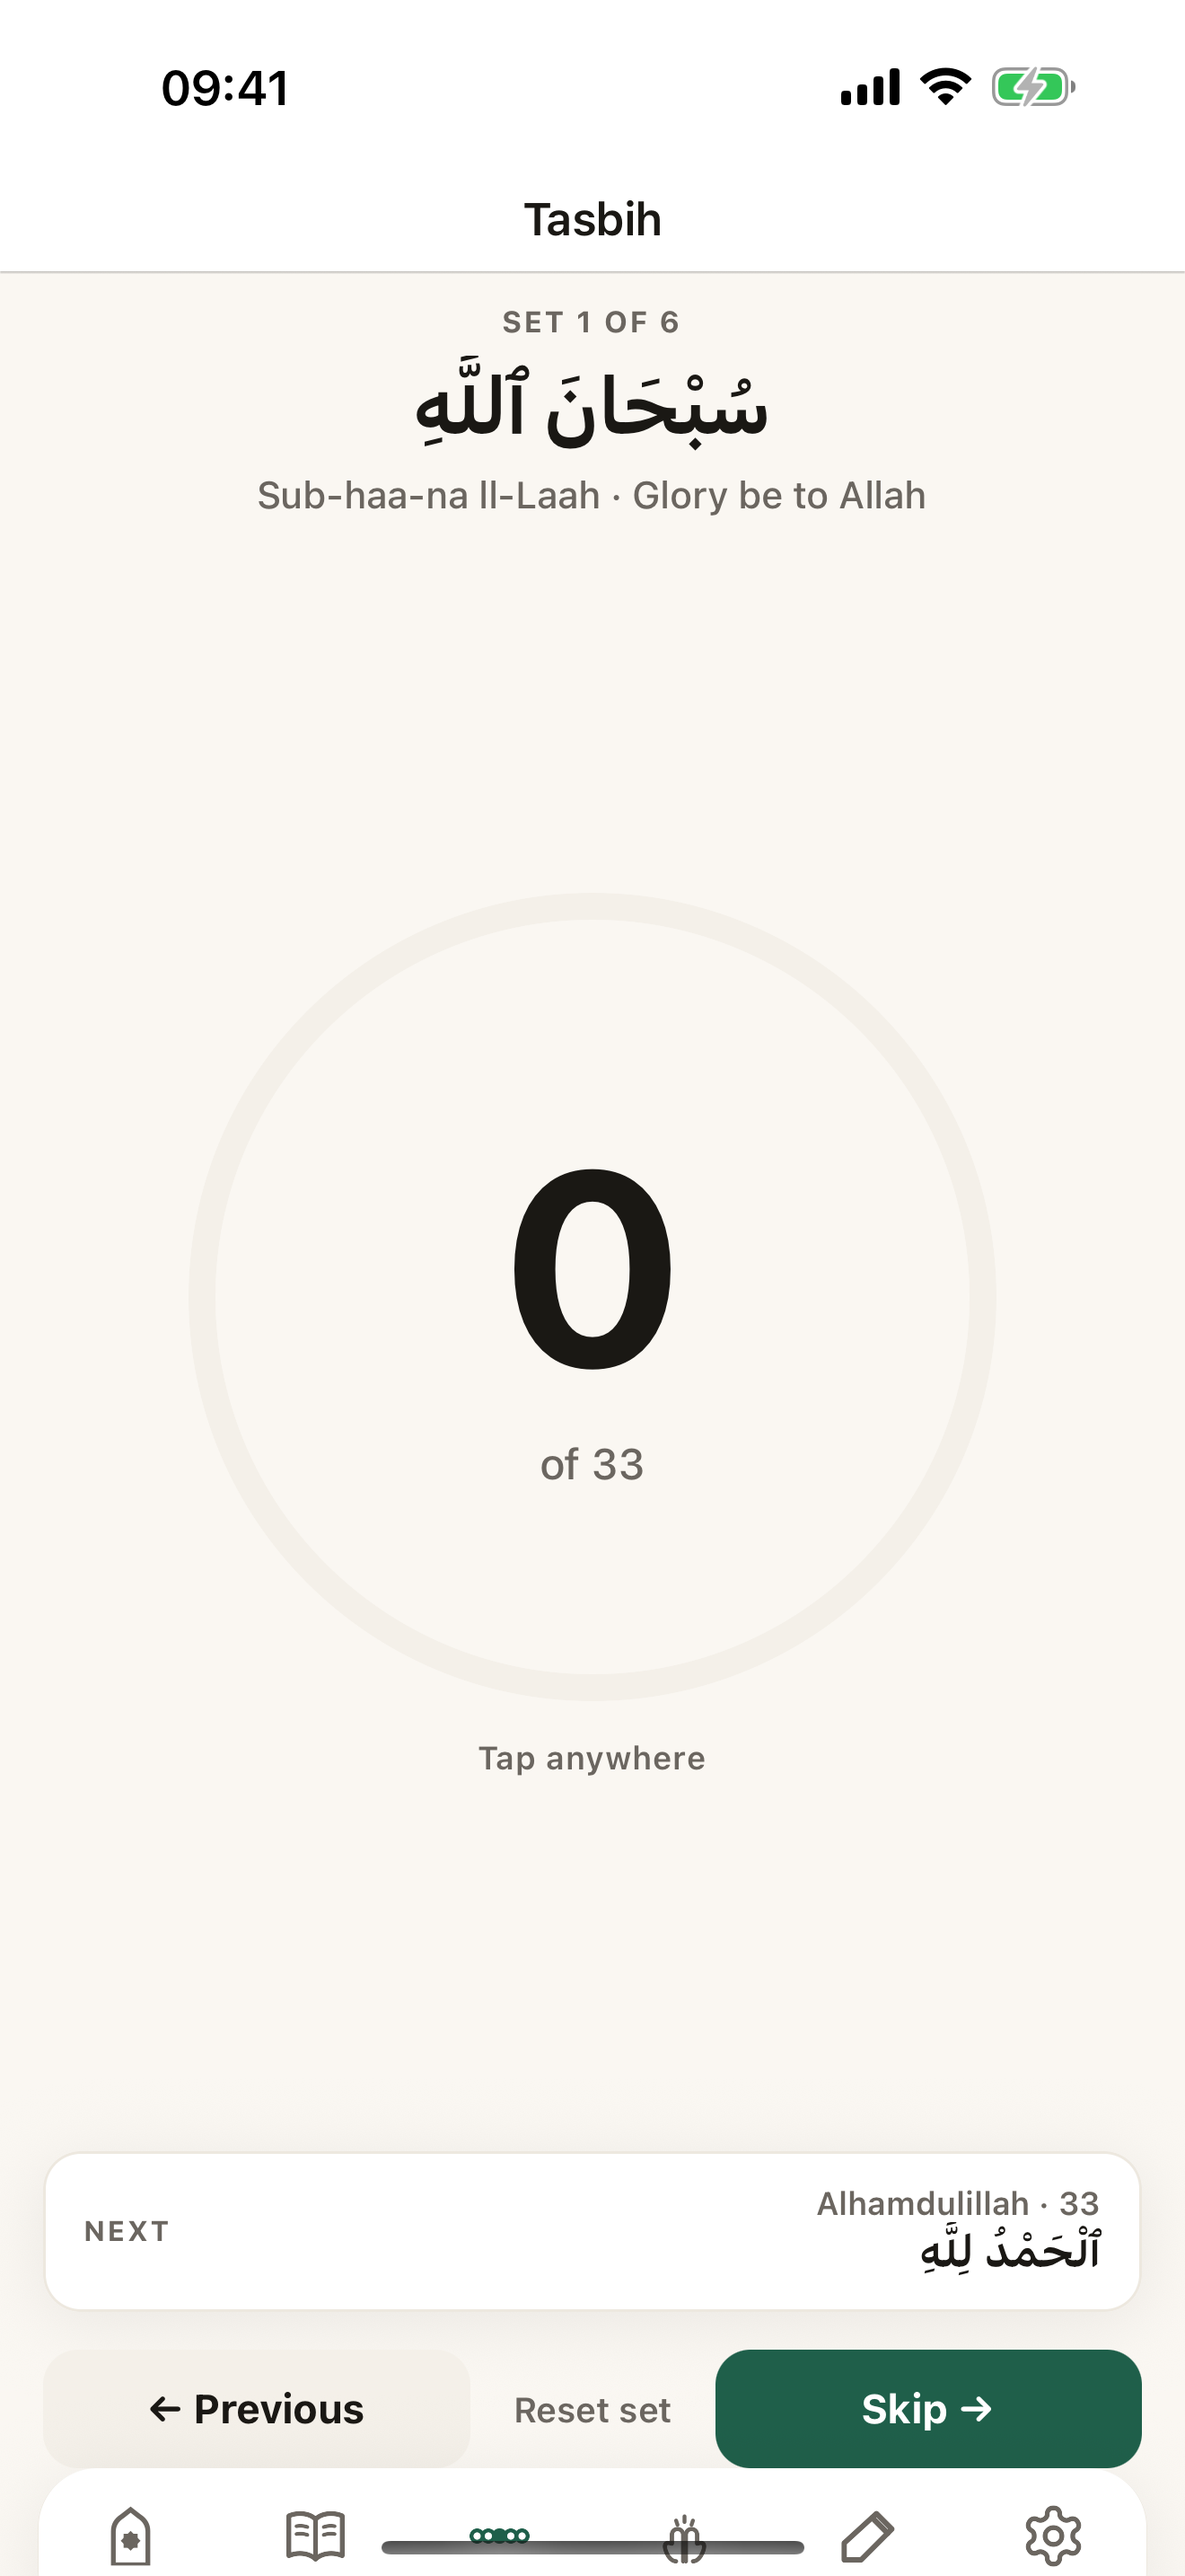
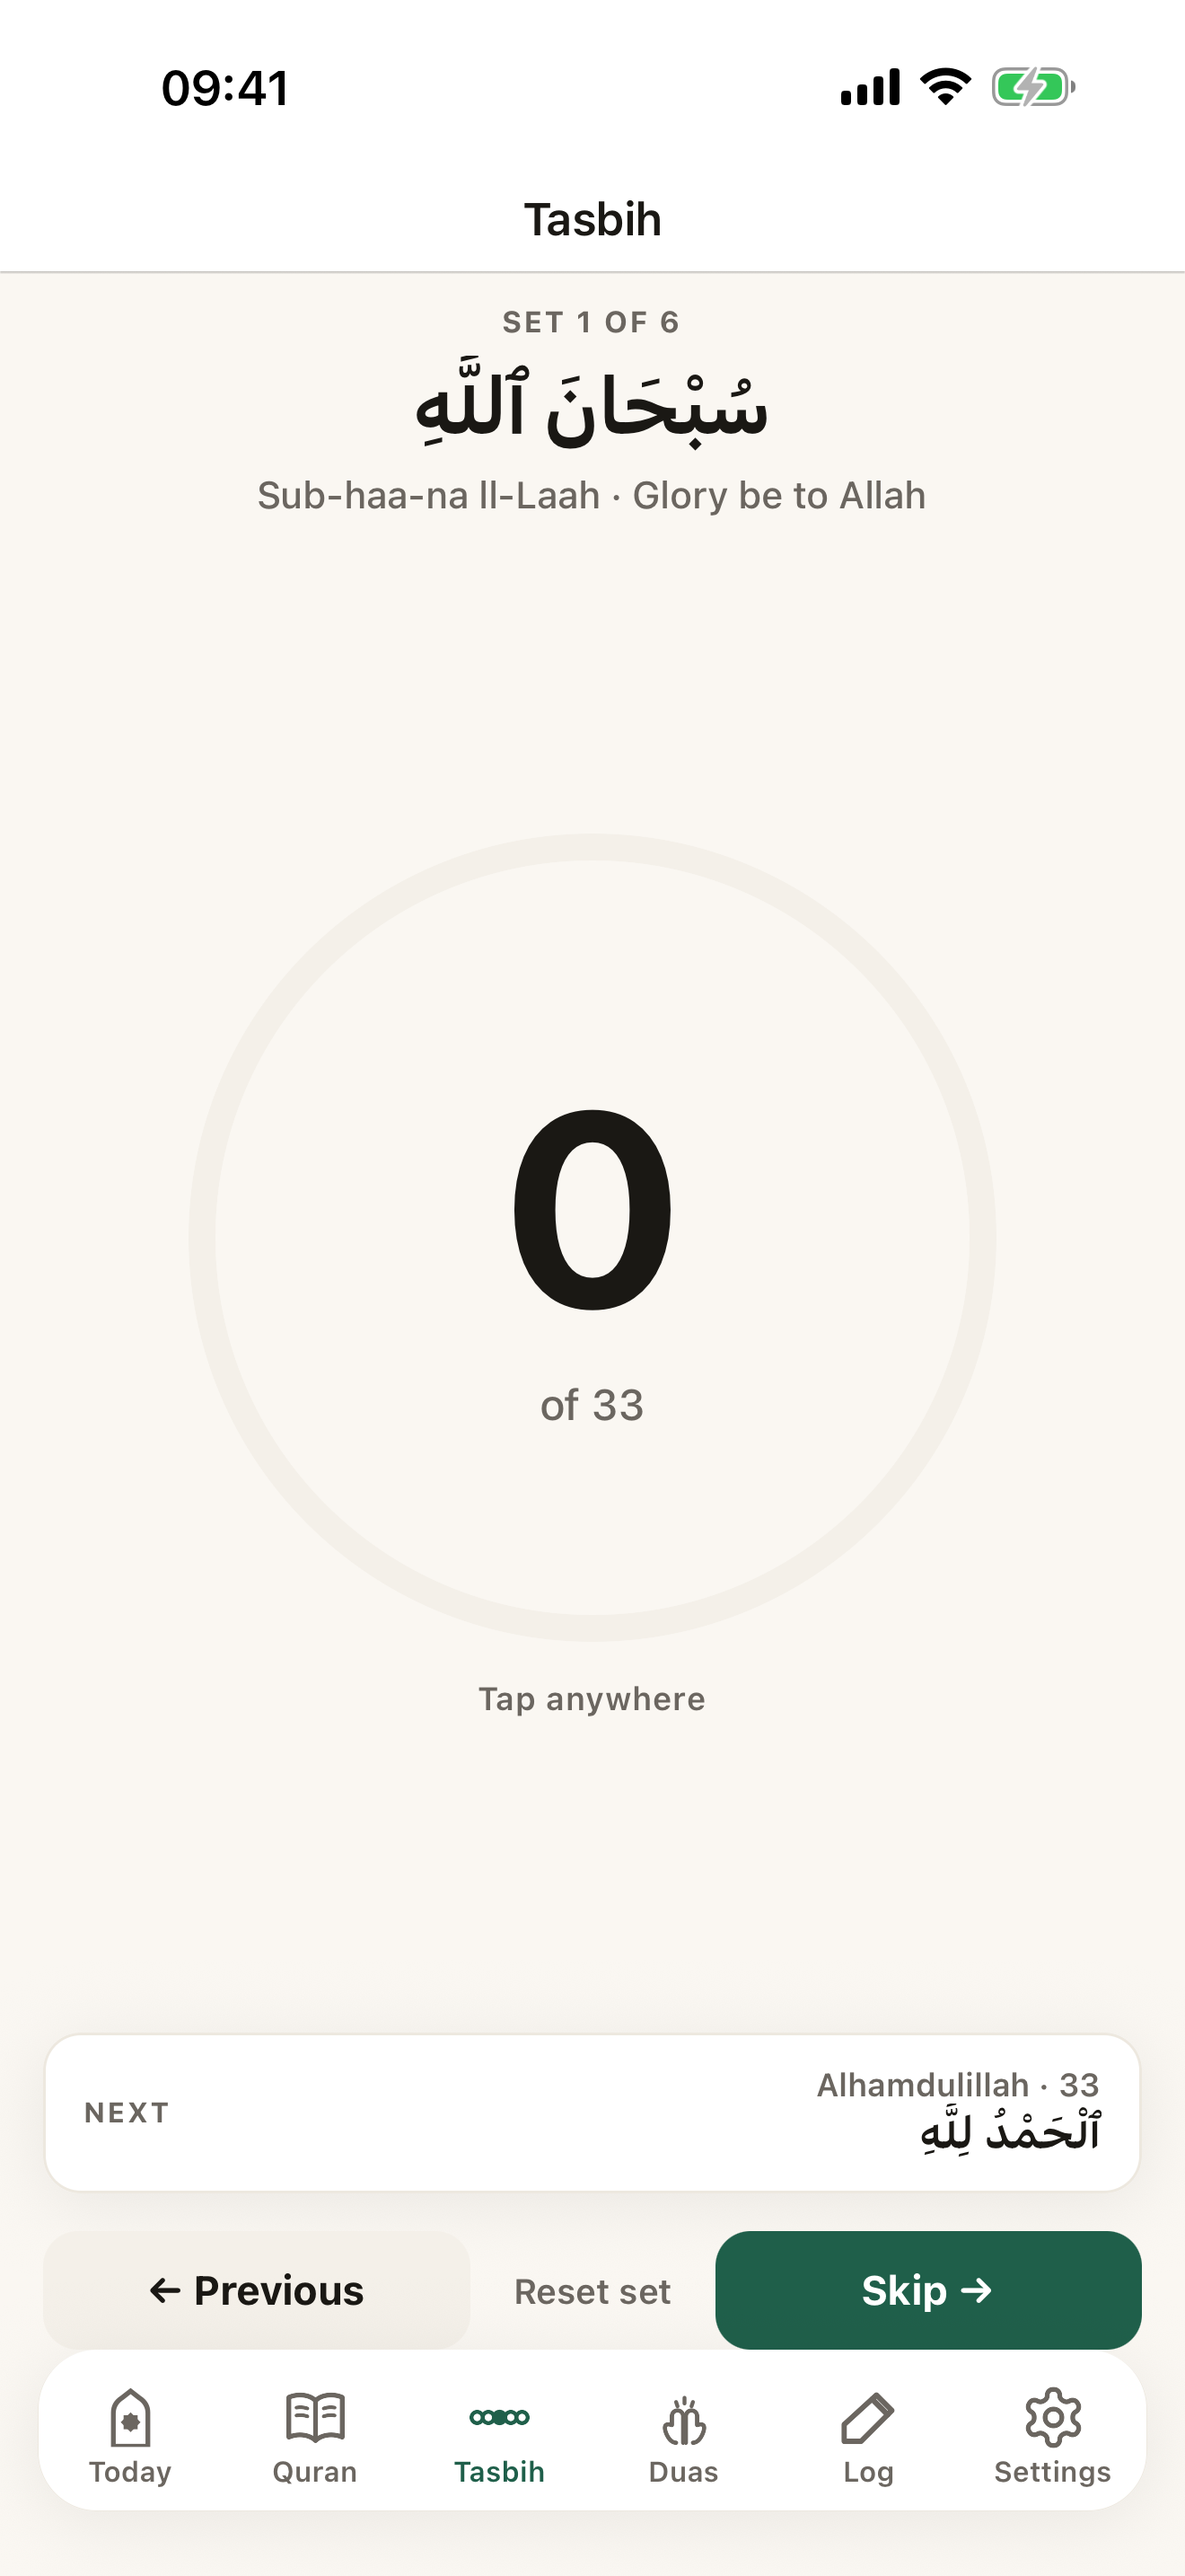
2.8.6 — the tab bar back inside the frame, and Home fits an iPad
The pill sets its own height, and react-navigation's getTabBarHeight
returns a custom numeric height verbatim: it only folds in insets.bottom
when it computes the default. So the navigator reserved nothing under the
bar, while useTabBarBottom was written as a correction to that reserve
and returned a negative number — hanging the pill 10-20pt off the bottom
of the window. iPhone lost its labels entirely, Android put them on the
gesture handle. The offset is now the whole gap: tuck inside a
home-indicator strip, clear a three-button bar completely. Six tests pin
it, since nothing in a build log or a screenshot of the top of the app
would ever show this.

On iPad the day card alone is nearly a windowful, so the Quran card
stacked under it fell off the bottom — the one card on Home you act on
was the one you had to scroll for. It moves to the head of the side
column, which was half empty. Home and Settings also added insets.bottom
to their scroll padding under a bar that had already spent it; that dead
air is gone.

Screenshots re-shot from a 2.8.6 release simulator build (home light and
dark, Quran, Duas, Tasbih, Log) and the hero, feature graphic and og
image recomposed from them.

diff --git a/src/screens/HomeScreen.tsx b/src/screens/HomeScreen.tsx
@@ -13,7 +13,6 @@ import notifee, {
   AndroidNotificationSetting,
   AuthorizationStatus,
 } from '@notifee/react-native';
-import { useSafeAreaInsets } from 'react-native-safe-area-context';
 import { useHeaderHeight } from '@react-navigation/elements';
 import { ProviderPickerModal } from '../components/ProviderPickerModal';
 import { usePrayerSettings } from '../context/PrayerSettingsContext';
@@ -90,7 +89,6 @@ export function HomeScreen() {
   // home render.
   usePrefetchSavedLocations();
   const { palette } = useAppPalette();
-  const insets = useSafeAreaInsets();
   // Native header height — anchors the Mac Catalyst pinned controls
   // overlay just below the (transparent) title bar.
   const headerHeight = useHeaderHeight();
@@ -689,9 +687,13 @@ export function HomeScreen() {
       style={[styles.scroll, { backgroundColor: palette.bg }]}
       contentContainerStyle={[
         styles.scrollContent,
-        // Room for the floating tab bar, which no longer reserves
-        // any: without this the last card sits under it for good.
-        { paddingBottom: insets.bottom + 28 + tabBarInset },
+        // Breathing room under the last card — and NOTHING for the tab
+        // bar or the safe area. The bar is in flow, so the scroll view
+        // already ends above it, and the bar's own bottom margin already
+        // spends `insets.bottom`. Adding it here as well cost ~54pt of
+        // dead air at the foot of the page, which on iPad was most of
+        // the reason the dashboard overflowed and had to scroll at all.
+        { paddingBottom: 24 + tabBarInset },
         // Fill the viewport on the dashboard: when the two columns are
         // shorter than the window, center them vertically instead of
         // leaving the bottom half of a Mac/iPad window empty (§B1).
@@ -770,13 +772,23 @@ export function HomeScreen() {
                 styles.dashRow,
                 dashScale > 1 && { transform: [{ scale: dashScale }] },
               ]}>
-              {/* gap:12 — without it the carousel's page dots sat flush
-                  against the Quran shortcut (reported 2026-07-16). */}
-              <View style={{ width: HOME_MAIN_COL, gap: 12 }}>
-                {dayTable}
-                {quranShortcut}
-              </View>
+              {/* The main column carries the day table AND NOTHING ELSE.
+                  It is the tallest thing on the screen by a wide margin —
+                  hero, day strip, six rows and the month link — and on an
+                  11" iPad in landscape it uses essentially the whole
+                  window on its own. Anything stacked under it therefore
+                  falls off the bottom, which is exactly what happened to
+                  the Quran card: the one card on Home you are meant to
+                  ACT on was the one card you had to scroll to find
+                  (reported 2026-08-02).
+
+                  So the Quran card moves across to the side column, and
+                  goes FIRST in it — the side column was half empty, and
+                  a shortcut outranks a read-only summary. Home now fits
+                  the window on iPad with nothing to scroll to. */}
+              <View style={{ width: HOME_MAIN_COL, gap: 12 }}>{dayTable}</View>
               <View style={styles.dashSide}>
+                {quranShortcut}
                 {toolsGrid}
                 {ramadanCard}
                 {providerFooter}

diff --git a/src/navigation/tabBarInset.ts b/src/navigation/tabBarInset.ts
@@ -23,20 +23,49 @@ export const TAB_BAR_HEIGHT = desktopSize(60);
 /** Side inset, and therefore the width the pill is short of the window. */
 export const TAB_BAR_SIDE_INSET = 14;
 
+/** The smallest gap between the pill and the window's bottom edge. */
+export const TAB_BAR_EDGE_GAP = 12;
+
 /**
- * How far the pill sits above the bottom edge.
- *
- * A gesture-navigation inset (iPhone 34, iPad 20, Android ~24) is the
- * home-indicator strip: the pill only has to clear the handle itself,
- * which is a ~5pt bar about 8pt up. A BUTTON navigation bar (Android's
- * 48) is a real bar and has to be cleared entirely.
+ * Above this, `insets.bottom` is a real navigation BAR, not a handle.
+ * iPhone 34, Android gesture ~24, iPad 20 are all strips; Android's
+ * three-button bar is ~48.
  */
+const GESTURE_INSET_MAX = 34;
+
+/**
+ * How far the pill's bottom edge sits above the window's bottom edge.
+ *
+ * An ADDITION, not a correction — this is the whole gap, and nothing
+ * else contributes to it.
+ *
+ * `getTabBarHeight` in @react-navigation/bottom-tabs returns a custom
+ * numeric `height` VERBATIM; it only folds in `insets.bottom` when it is
+ * computing the DEFAULT height. So the moment the pill sets
+ * `height: TAB_BAR_HEIGHT` the navigator stops reserving the safe area
+ * altogether, and the pill's own `paddingBottom` overrides the
+ * `paddingBottom: insets.bottom` the bar would otherwise carry.
+ *
+ * Reading it as a correction — and therefore returning a NEGATIVE number
+ * — hung the pill 10–20pt off the bottom of the window and cut the
+ * labels clean off: no labels at all on iPhone (inset 34 → −20), labels
+ * sitting on the gesture handle on Android (inset 24 → −10). Reported
+ * 2026-08-02 with screenshots of all three targets.
+ *
+ * A gesture inset is a home-INDICATOR strip: a ~5pt handle about 8pt up,
+ * which the pill only has to clear rather than vacate — hence sitting
+ * inside the strip is fine and looks tighter. A BUTTON navigation bar is
+ * real chrome and has to be cleared completely.
+ */
+export function tabBarBottomFor(insetBottom: number): number {
+  if (insetBottom > GESTURE_INSET_MAX) {
+    return insetBottom + TAB_BAR_EDGE_GAP;
+  }
+  return Math.max(TAB_BAR_EDGE_GAP, insetBottom - 10);
+}
+
 export function useTabBarBottom(): number {
-  const insets = useSafeAreaInsets();
-  // A correction, not an addition — the navigator has already reserved
-  // `insets.bottom` under the bar. Asking for 14 and getting 48 is what
-  // stranded the pill in the middle of nothing the first time.
-  return Math.max(-insets.bottom, 14 - insets.bottom);
+  return tabBarBottomFor(useSafeAreaInsets().bottom);
 }
 
 /**

diff --git a/__tests__/tabBarGeometry.test.ts b/__tests__/tabBarGeometry.test.ts
@@ -1,0 +1,65 @@
+/**
+ * The pill tab bar's bottom offset.
+ *
+ * This has now gone wrong twice in a way no build log can catch: the bar
+ * renders, the app runs, and the labels are simply not on the screen. The
+ * rule the test exists to pin is that the offset is the WHOLE gap under
+ * the bar — @react-navigation/bottom-tabs returns a custom numeric
+ * `height` from `getTabBarHeight` verbatim, so once the pill sets its own
+ * height the navigator reserves no safe area at all. A negative value
+ * here means the bar hangs off the bottom of the window.
+ */
+import {
+  TAB_BAR_EDGE_GAP,
+  TAB_BAR_HEIGHT,
+  tabBarBottomFor,
+} from '../src/navigation/tabBarInset';
+
+describe('tabBarBottomFor', () => {
+  it('is never negative — a negative offset hangs the bar off-screen', () => {
+    for (let inset = 0; inset <= 80; inset += 1) {
+      expect(tabBarBottomFor(inset)).toBeGreaterThanOrEqual(0);
+    }
+  });
+
+  it('keeps the whole pill inside the window on every inset', () => {
+    // The bar's box is exactly TAB_BAR_HEIGHT tall and sits `bottom`
+    // above the window edge, so its top is height + bottom above it —
+    // which only stays on screen while `bottom` is >= 0.
+    for (let inset = 0; inset <= 80; inset += 1) {
+      const bottom = tabBarBottomFor(inset);
+      expect(TAB_BAR_HEIGHT + bottom).toBeGreaterThan(TAB_BAR_HEIGHT);
+    }
+  });
+
+  it('tucks into a gesture strip rather than clearing it', () => {
+    // iPhone home indicator: 34pt of inset, a ~5pt handle ~8pt up. The
+    // pill sits inside the strip and still clears the handle.
+    expect(tabBarBottomFor(34)).toBe(24);
+    // Android gesture bar.
+    expect(tabBarBottomFor(24)).toBe(14);
+    // iPad.
+    expect(tabBarBottomFor(20)).toBe(12);
+  });
+
+  it('clears a button navigation bar completely', () => {
+    // Android three-button navigation is real chrome, not a handle: the
+    // pill has to sit above the whole 48pt of it.
+    expect(tabBarBottomFor(48)).toBe(48 + TAB_BAR_EDGE_GAP);
+    expect(tabBarBottomFor(48)).toBeGreaterThan(48);
+  });
+
+  it('still leaves a gap when there is no inset at all', () => {
+    // Mac Catalyst and older Android hardware-key phones report 0.
+    expect(tabBarBottomFor(0)).toBe(TAB_BAR_EDGE_GAP);
+  });
+
+  it('never decreases as the inset grows', () => {
+    let previous = -1;
+    for (let inset = 0; inset <= 80; inset += 1) {
+      const bottom = tabBarBottomFor(inset);
+      expect(bottom).toBeGreaterThanOrEqual(previous);
+      previous = bottom;
+    }
+  });
+});

diff --git a/src/screens/SettingsScreen.tsx b/src/screens/SettingsScreen.tsx
@@ -1,6 +1,5 @@
 import { useCallback, useEffect, useRef, useState } from 'react';
 import { ScrollView, StyleSheet, View } from 'react-native';
-import { useSafeAreaInsets } from 'react-native-safe-area-context';
 import { useRoute, type RouteProp } from '@react-navigation/native';
 import type { MainTabParamList } from '../navigation/types';
 import { ProviderPickerModal } from '../components/ProviderPickerModal';
@@ -48,7 +47,6 @@ export function SettingsScreen() {
   const isExpanded = useBreakpoint() === 'expanded';
   const { settings, updateSettings } = usePrayerSettings();
   const { palette } = useAppPalette();
-  const insets = useSafeAreaInsets();
 
   // Deep-link highlight: when arriving from the home location selector's
   // "Add new location" action, scroll to and briefly flash the Saved
@@ -124,7 +122,10 @@ export function SettingsScreen() {
         style={[styles.scroll, { backgroundColor: palette.bg }]}
         contentContainerStyle={[
           styles.scrollContent,
-          { paddingBottom: insets.bottom + 24 + tabBarInset },
+          // No `insets.bottom`: the tab bar is in flow and already spends
+          // it, so adding it here doubled the dead air at the foot of the
+          // list (see HomeScreen's scroll content).
+          { paddingBottom: 24 + tabBarInset },
         ]}
         contentInsetAdjustmentBehavior="automatic"
         keyboardShouldPersistTaps="handled">

diff --git a/src/navigation/MainTabs.tsx b/src/navigation/MainTabs.tsx
@@ -109,10 +109,13 @@ export function MainTabs() {
                * content peeking under it, so the pill stays in flow and
                * the page stops above it.
                *
-               * `marginBottom` is a CORRECTION to the inset the navigator
-               * already reserves beneath the bar, not an addition: a
-               * positive value stacks on it and strands the bar in the
-               * middle of nothing.
+               * `marginBottom` is the WHOLE gap under the bar. Setting
+               * `height` below makes `getTabBarHeight` return that number
+               * verbatim, so the navigator reserves no safe area at all
+               * and there is nothing here to correct — see
+               * `useTabBarBottom`. It was written as a correction (and so
+               * came out negative), which hung the pill off the bottom of
+               * the window and cut the labels off entirely.
                */
               marginHorizontal: TAB_BAR_SIDE_INSET,
               marginBottom: barBottom,

diff --git a/CHANGELOG.md b/CHANGELOG.md
@@ -2,6 +2,14 @@
 
 All notable changes to this project are documented here. The format is inspired by [Keep a Changelog](https://keepachangelog.com/en/1.1.0/).
 
+## [2.8.6] — 2026-08-02
+
+Two things the 2.8.5 design pass got wrong on real devices.
+
+### Fixed
+- **The tab bar's labels were cut off the bottom of the screen.** On an iPhone they were gone entirely; on Android they sat on the gesture handle. The bar sets its own height, and a tab navigator that is given a height returns exactly that — it stops reserving the safe area underneath, which the pill's bottom offset had been written to subtract from. Subtracting an inset nobody reserved hung the bar ten to twenty points off the bottom edge. The offset is now the whole gap and nothing is taken away from it: the pill tucks inside a home-indicator strip, which is a handle it only has to clear, and sits fully above a three-button navigation bar, which is real chrome. A test pins it, because this is a fault that no build log reports and every screenshot of the top of the app hides.
+- **Home fits an iPad without scrolling.** The day card — countdown, week strip, six times, month link — is the tallest thing on the screen and uses almost the whole window on its own, so the Quran card stacked beneath it fell off the bottom: the one card on Home you are meant to act on was the one you had to go looking for. It now sits at the top of the side column, which was half empty. The foot of the page also carried a safe-area inset a second time, under a bar that had already spent it, and that dead air is gone everywhere.
+
 ## [2.8.5] — 2026-08-02
 
 A design pass over the whole app, and the mushaf finally works in Arabic.
